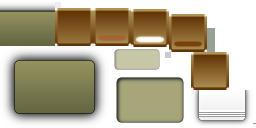
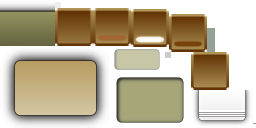
FIX: dialog bg image

Changed region(s): [[0.0312, 0.4688, 0.4062, 0.9688]]

diff --git a/fourinaline/src/it/alcacoop/fourinaline/actors/UIDialog.java b/fourinaline/src/it/alcacoop/fourinaline/actors/UIDialog.java
@@ -47,7 +47,6 @@ import com.badlogic.gdx.scenes.scene2d.actions.Actions;
 import com.badlogic.gdx.scenes.scene2d.ui.Label;
 import com.badlogic.gdx.scenes.scene2d.ui.ScrollPane;
 import com.badlogic.gdx.scenes.scene2d.ui.Table;
-import com.badlogic.gdx.scenes.scene2d.ui.TextButton;
 import com.badlogic.gdx.scenes.scene2d.ui.TextButton.TextButtonStyle;
 import com.badlogic.gdx.scenes.scene2d.utils.Align;
 import com.badlogic.gdx.scenes.scene2d.utils.ClickListener;
@@ -57,13 +56,11 @@ import com.badlogic.gdx.scenes.scene2d.utils.Drawable;
 public final class UIDialog extends Table {
 
   private Table t1, t2, t3;
-  private TextButton bContinue;
-  private TextButton bYes;
-  private TextButton bNo;
-  private TextButton bCancel;
-  private TextButton bExport;
-  private TextButton bAccept;
-  private TextButton bReject;
+  private IconButton bContinue;
+  private IconButton bYes;
+  private IconButton bNo;
+  private IconButton bCancel;
+  private IconButton bExport;
 
   private Label label;
   private Drawable background;
@@ -74,11 +71,9 @@ public final class UIDialog extends Table {
 
   private FSM.Events evt;
   private boolean quitWindow = false;
-  private boolean optionsWindow = false;
   private boolean leaveWindow = false;
-  private boolean dicesWindow = false;
   private boolean visible = false;
-  private static float alpha = 0.9f;
+  private static float alpha = 0.95f;
 
   static {
     instance = new UIDialog();
@@ -93,7 +88,7 @@ public final class UIDialog extends Table {
         if (event.getTarget() instanceof Label) {
           s = ((Label)event.getTarget()).getText().toString().toUpperCase();
         } else {
-          s = ((TextButton)event.getTarget()).getText().toString().toUpperCase();
+          s = ((IconButton)event.getTarget()).getText().toString().toUpperCase();
         }
         instance.addAction(Actions.sequence(Actions.fadeOut(0.3f), Actions.run(new Runnable() {
           @Override
@@ -119,13 +114,13 @@ public final class UIDialog extends Table {
 
     TextButtonStyle tl = FourInALine.Instance.skin.get("button", TextButtonStyle.class);
 
-    bYes = new TextButton("Yes", tl);
+    bYes = new IconButton("Yes", null, tl);
     bYes.addListener(cl);
-    bNo = new TextButton("No", tl);
+    bNo = new IconButton("No", null, tl);
     bNo.addListener(cl);
-    bContinue = new TextButton("Ok", tl);
+    bContinue = new IconButton("Ok", null, tl);
     bContinue.addListener(cl);
-    bCancel = new TextButton("Cancel", tl);
+    bCancel = new IconButton("Cancel", null, tl);
     bCancel.addListener(cl);
 
     background = FourInALine.Instance.skin.getDrawable("default-window");
@@ -162,9 +157,7 @@ public final class UIDialog extends Table {
     Stage stage = FourInALine.Instance.currentScreen.getStage();
     instance.visible = true;
     instance.quitWindow = false;
-    instance.optionsWindow = false;
     instance.leaveWindow = false;
-    instance.dicesWindow = false;
     instance.evt = evt;
     instance.remove();
     instance.setText(text);
@@ -199,9 +192,7 @@ public final class UIDialog extends Table {
     Stage stage = FourInALine.Instance.currentScreen.getStage();
     instance.visible = true;
     instance.quitWindow = false;
-    instance.optionsWindow = false;
     instance.leaveWindow = false;
-    instance.dicesWindow = false;
     instance.evt = evt;
     instance.remove();
     instance.setText(text);
@@ -234,9 +225,7 @@ public final class UIDialog extends Table {
     Stage stage = FourInALine.Instance.currentScreen.getStage();
     instance.visible = true;
     instance.quitWindow = false;
-    instance.optionsWindow = false;
     instance.leaveWindow = false;
-    instance.dicesWindow = false;
     instance.evt = evt;
     instance.remove();
 
@@ -291,9 +280,7 @@ public final class UIDialog extends Table {
     Stage stage = FourInALine.Instance.currentScreen.getStage();
     instance.visible = true;
     instance.quitWindow = false;
-    instance.optionsWindow = false;
     instance.leaveWindow = false;
-    instance.dicesWindow = false;
     instance.evt = evt;
     instance.remove();
     instance.setText(text);
@@ -324,9 +311,7 @@ public final class UIDialog extends Table {
     Stage stage = FourInALine.Instance.currentScreen.getStage();
     instance.visible = true;
     instance.quitWindow = true;
-    instance.optionsWindow = false;
     instance.leaveWindow = false;
-    instance.dicesWindow = false;
     instance.remove();
     instance.setText("Really quit the game?");
 
@@ -360,9 +345,7 @@ public final class UIDialog extends Table {
     Stage stage = FourInALine.Instance.currentScreen.getStage();
     instance.visible = true;
     instance.quitWindow = false;
-    instance.optionsWindow = false;
     instance.leaveWindow = true;
-    instance.dicesWindow = false;
     instance.evt = evt;
     instance.remove();
 
@@ -408,8 +391,6 @@ public final class UIDialog extends Table {
     instance.evt = Events.NOOP;
     instance.quitWindow = false;
     instance.leaveWindow = false;
-    instance.optionsWindow = false;
-    instance.dicesWindow = false;
     instance.remove();
 
     final String gnuBgLink = "http://www.gnubg.org";
